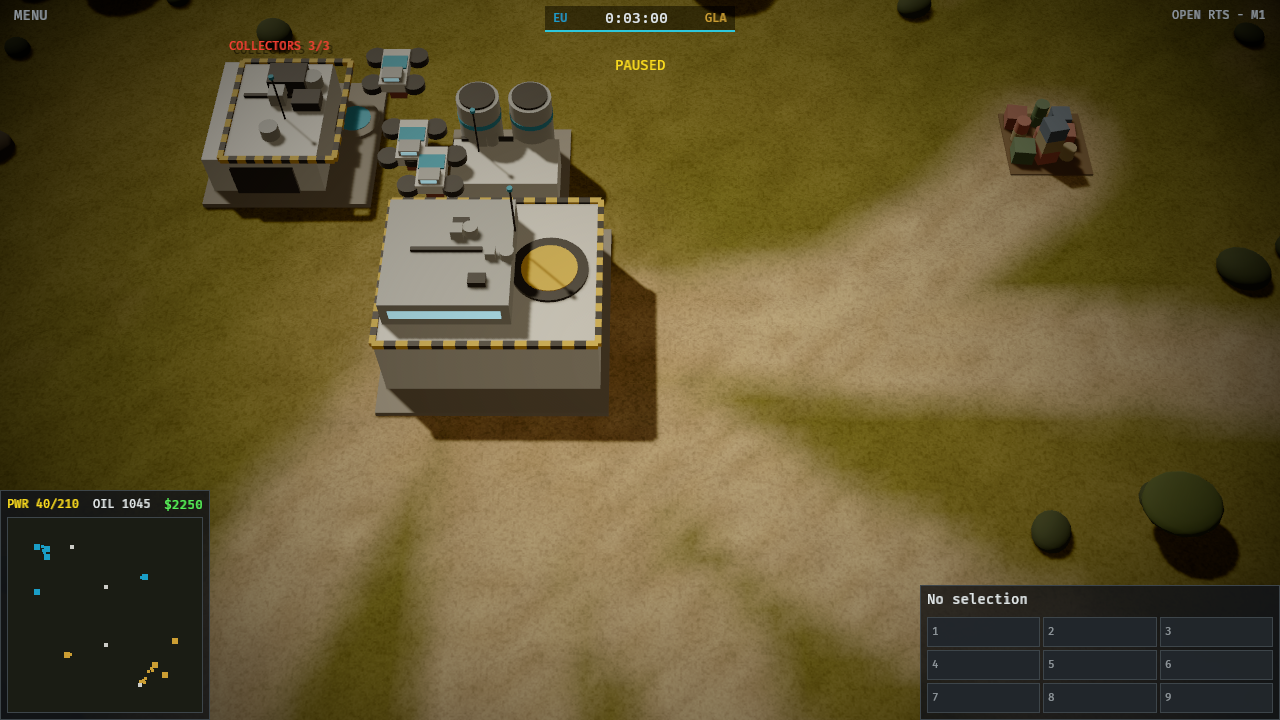
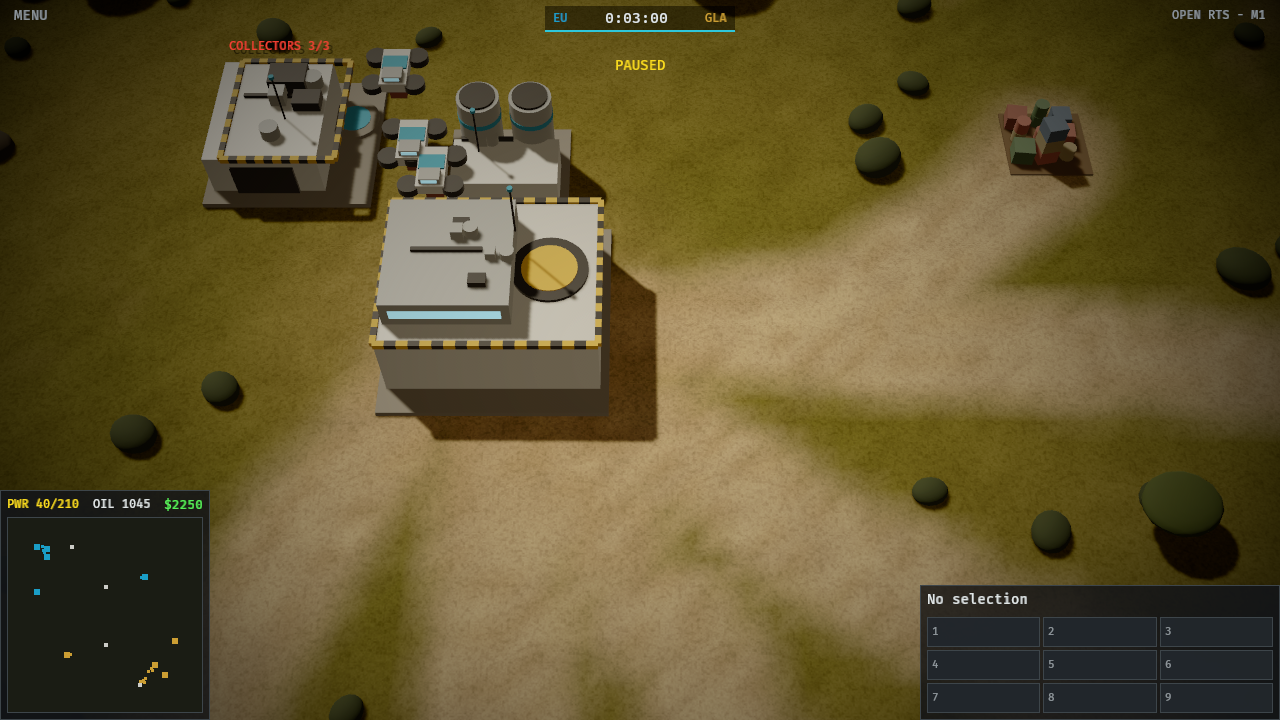
feat(client): scenery grows up to the bases, as in the 2013 footage
Only the command center (r 13) and resource spots (r 8) start clear of props; the painted
dirt pads keep their old size. Buildings placed later hide the props they cover.

diff --git a/crates/g2-client/src/terrain.rs b/crates/g2-client/src/terrain.rs
@@ -123,8 +123,11 @@ struct Layout {
     width: f32,
     height: f32,
     roads: Vec<Road>,
-    /// Bases and resources: kept clear of trees and rocks.
+    /// Command centers and resources: kept clear of trees and rocks. Small on purpose, so groves
+    /// grow right up to the bases; later buildings hide what they cover (`clear_under_buildings`).
     clearings: Vec<(Vec2, f32)>,
+    /// Trampled dirt painted around bases and resources; larger than the scenery clearings.
+    pads: Vec<(Vec2, f32)>,
 }
 
 impl Layout {
@@ -133,20 +136,22 @@ impl Layout {
         let p = |v: g2_sim::Vec2| Vec2::new(v.x.to_f32(), v.y.to_f32());
         let spawns: Vec<Vec2> = map.spawns.iter().map(|&s| p(s)).collect();
         let mut roads = Vec::new();
-        // Room for the opening buildings; the AI and players build within ~35 units of the spawn.
-        let mut clearings: Vec<(Vec2, f32)> = spawns.iter().map(|&s| (s, 38.0)).collect();
+        // Just past the command center (radius 10); everything else at a base is built later.
+        let mut clearings: Vec<(Vec2, f32)> = spawns.iter().map(|&s| (s, 13.0)).collect();
+        let mut pads: Vec<(Vec2, f32)> = spawns.iter().map(|&s| (s, 38.0)).collect();
         // Main road between the bases, plus a spur from each resource to the nearest base.
         if let [a, b, ..] = spawns.as_slice() {
             roads.push(Road::new(*a, *b, 60.0));
         }
         for (i, &(pos, _)) in map.supply_piles.iter().chain(map.oil_wells.iter()).enumerate() {
             let q = p(pos);
-            clearings.push((q, 16.0));
+            clearings.push((q, 8.0));
+            pads.push((q, 16.0));
             let nearest = spawns.iter().copied().min_by(|x, y| x.distance(q).total_cmp(&y.distance(q))).unwrap_or(q);
             let bend = if i % 2 == 0 { 18.0 } else { -18.0 };
             roads.push(Road::new(nearest, q, bend));
         }
-        Layout { width: map.width.to_f32(), height: map.height.to_f32(), roads, clearings }
+        Layout { width: map.width.to_f32(), height: map.height.to_f32(), roads, clearings, pads }
     }
 
     fn road(&self, p: Vec2) -> f32 {
@@ -187,7 +192,7 @@ impl Layout {
         let tracks = if (d - 2.5).abs() < 0.6 { 0.06 } else { 0.0 };
         c = c.lerp(road - Vec3::splat(tracks), on_road);
         // Only a soft trampled patch at the very centre of a base; grass runs up to the buildings.
-        for &(centre, r) in &self.clearings {
+        for &(centre, r) in &self.pads {
             let k = (1.0 - (centre.distance(p) - r * 0.25) / (r * 0.35)).clamp(0.0, 1.0);
             c = c.lerp(dirt * 1.05, k * 0.45);
         }

diff --git a/README.md b/README.md
@@ -25,7 +25,7 @@ What works:
   - Interpolated movement between sim ticks.
   - `--record FILE` saves the match as a replay on exit, for `g2-tools verify`.
   - A headless `--screenshot` mode that renders one frame and checks that every sim entity has exactly one model at its sim position. `--view base|map` picks the in-game camera or a whole-map overview.
-- **Visuals** (`look.rs`, `terrain.rs`, `models.rs`, `hud.rs`): narrow-FOV steep camera, a low warm sun with cascaded shadows, AgX tonemapping with a warm grade, distance haze and a vignette. The terrain is procedural savanna with dirt roads, a tiling detail texture, trees, bushes and rocky rims; scenery under a building is hidden while the building stands. Each faction has its own procedural models: EU grey panels with hazard trim and a ducted-fan collector, APA dark steel with red accents, GLA scrap walls and crate yards. Construction sites have grey scaffolding, team-coloured netting and a tower crane. The HUD shows live data only: match bar, resources, a minimap with team dots and neutral resources, a selection panel with a training queue and a 3×3 production grid, plus collector counts and health bars in the world.
+- **Visuals** (`look.rs`, `terrain.rs`, `models.rs`, `hud.rs`): narrow-FOV steep camera, a low warm sun with cascaded shadows, AgX tonemapping with a warm grade, distance haze and a vignette. The terrain is procedural savanna with dirt roads, a tiling detail texture, trees, bushes and rocky rims. As in the 2013 footage, scenery grows right up to the bases: only the command center and resource spots start clear, and a building hides any scenery it covers while it stands. Each faction has its own procedural models: EU grey panels with hazard trim and a ducted-fan collector, APA dark steel with red accents, GLA scrap walls and crate yards. Construction sites have grey scaffolding, team-coloured netting and a tower crane. The HUD shows live data only: match bar, resources, a minimap with team dots and neutral resources, a selection panel with a training queue and a 3×3 production grid, plus collector counts and health bars in the world.
 
 Not yet:
 
